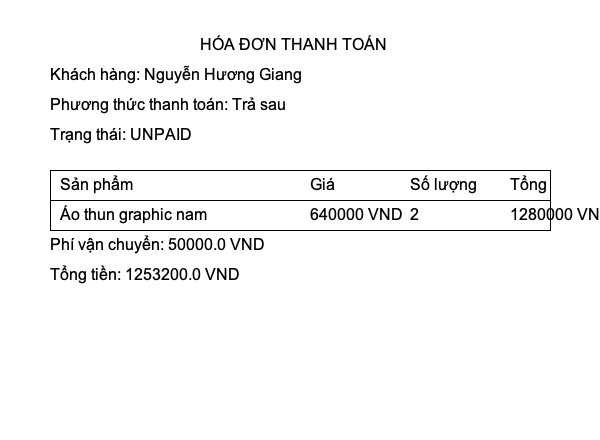
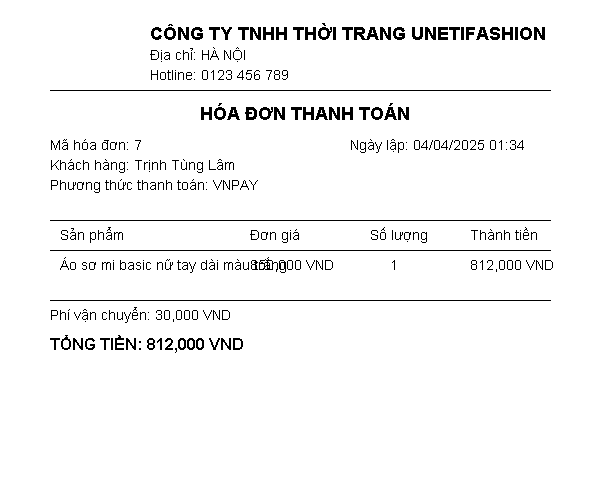
fix filter

Changed region(s): [[0.06, 0.0295, 1.0, 0.65], [0.09, 0.6795, 0.42, 0.7386], [0.69, 0.2659, 0.87, 0.325]]

diff --git a/src/main/java/com/example/doan/jmageBill/InvoiceImageGenerator.java b/src/main/java/com/example/doan/jmageBill/InvoiceImageGenerator.java
@@ -24,7 +24,7 @@ public class InvoiceImageGenerator {
         g2d.setColor(Color.BLACK);
         
         g2d.setFont(new Font("Arial", Font.BOLD, 18));
-        g2d.drawString("CÔNG TY TNHH THỜI TRANG UNETIFASHION", 150, 40);
+        g2d.drawString("SHOP THỜI TRANG UNETIFASHION", 150, 40);
         g2d.setFont(new Font("Arial", Font.PLAIN, 14));
         g2d.drawString("Địa chỉ: HÀ NỘI", 150, 60);
         g2d.drawString("Hotline: 0123 456 789", 150, 80);
@@ -50,11 +50,32 @@ public class InvoiceImageGenerator {
         
         int y = tableStartY + 50;
         for (BillItem item : bill.getBillItems()) {
-            g2d.drawString(item.getProductVariant().getProduct().getProductName(), 60, y);
-            g2d.drawString(String.format("%,.0f VND", item.getProductVariant().getPrice()), 250, y);
-            g2d.drawString(String.valueOf(item.getQuantity()), 390, y);
-            g2d.drawString(String.format("%,.0f VND", item.getTotalPrice()), 470, y);
-            y += 30;
+            String productName = item.getProductVariant().getProduct().getProductName();
+            int maxWidth = 180; // Chiều rộng tối đa của cột tên sản phẩm
+            FontMetrics metrics = g2d.getFontMetrics();
+
+            // Xử lý cắt dòng cho tên sản phẩm
+            int lineHeight = metrics.getHeight();
+            int lineY = y;
+            String[] words = productName.split(" ");
+            StringBuilder line = new StringBuilder();
+
+            for (String word : words) {
+                if (metrics.stringWidth(line + word) > maxWidth) {
+                    g2d.drawString(line.toString(), 60, lineY);
+                    line = new StringBuilder(word + " ");
+                    lineY += lineHeight;
+                } else {
+                    line.append(word).append(" ");
+                }
+            }
+            g2d.drawString(line.toString(), 60, lineY); // Vẽ dòng cuối cùng
+            y = Math.max(y, lineY) + 30; // Cập nhật vị trí Y cho dòng tiếp theo
+
+            // Vẽ các cột khác
+            g2d.drawString(String.format("%,.0f VND", item.getProductVariant().getPrice()), 250, y - 30);
+            g2d.drawString(String.valueOf(item.getQuantity()), 390, y - 30);
+            g2d.drawString(String.format("%,.0f VND", item.getTotalPrice()), 470, y - 30);
         }
  
         g2d.drawLine(50, y, 550, y);

diff --git a/src/main/java/com/example/doan/controller/ProductController.java b/src/main/java/com/example/doan/controller/ProductController.java
@@ -1,8 +1,6 @@
 package com.example.doan.controller;
 
-import java.util.HashMap;
-import java.util.List;
-import java.util.Map;
+import java.util.*;
 
 import org.springframework.beans.factory.annotation.Autowired;
 import org.springframework.data.domain.Page;
@@ -49,13 +47,32 @@ public class ProductController {
     }
 
     @GetMapping("/filterProduct")
-    public ResponseEntity<List<ProductDTO>> filterProduct(@RequestParam(required = false) String size,
-    @RequestParam(required = false) String color,
-    @RequestParam(required = false) Double minPrice,
-    @RequestParam(required = false) Double maxPrice
-    ){
-        List<ProductDTO> filteredProducts = productService.geProductDTOs(size, color, minPrice, maxPrice);
-        return ResponseEntity.ok(filteredProducts);
+    public ResponseEntity<Map<String, Object>> filterProduct(
+            @RequestParam(required = false) String size, // Kích thước sản phẩm
+            @RequestParam(required = false) String color,
+            @RequestParam(required = false) Double minPrice,
+            @RequestParam(required = false) Double maxPrice,
+            @RequestParam(value = "page", defaultValue = "0") int page,
+            @RequestParam(value = "pageSize", defaultValue = "10") int pageSize) { // Đổi tên size thành pageSize
+
+        List<String> sizes = (size != null && !size.isEmpty())
+                ? Arrays.asList(size.split(","))
+                : null;
+
+        List<String> colors = (color != null && !color.isEmpty())
+                ? Arrays.asList(color.split(","))
+                : null;
+
+        Pageable pageable = PageRequest.of(page, pageSize); // Sử dụng pageSize thay vì size
+        Page<ProductDTO> productPage = productService.geProductDTOs(sizes, colors, minPrice, maxPrice, pageable);
+
+        Map<String, Object> response = new HashMap<>();
+        response.put("totalPages", productPage.getTotalPages());
+        response.put("totalElements", productPage.getTotalElements());
+        response.put("numberOfElements", productPage.getNumberOfElements());
+        response.put("products", productPage.getContent());
+
+        return ResponseEntity.ok(response);
     }
 
     @PostMapping("/addProductNew")

diff --git a/src/main/java/com/example/doan/controller/PaymentController.java b/src/main/java/com/example/doan/controller/PaymentController.java
@@ -100,25 +100,34 @@ public class PaymentController {
     }
 
     @GetMapping("/payment_return")
-    public ResponseEntity<String> paymentReturn(@RequestParam Map<String, String> params) {
+    public ResponseEntity<Map<String, String>> paymentReturn(@RequestParam Map<String, String> params) {
         String vnp_ResponseCode = params.get("vnp_ResponseCode");
         String vnp_TransactionStatus = params.get("vnp_TransactionStatus");
         Long orderId = Long.parseLong(params.get("vnp_TxnRef"));
 
         Orders order = orderRepository.findById(orderId)
                 .orElseThrow(() -> new RuntimeException("Order not found"));
-        
+
+        Map<String, String> response = new HashMap<>();
+
         if ("00".equals(vnp_ResponseCode) && "00".equals(vnp_TransactionStatus)) {
             order.setPaymentStatus(PaymentStatus.PAID);
             order.setOrderEnum(OrderEnum.PENDING);
             orderRepository.save(order);
             billService.createBill(orderId);
-            return ResponseEntity.ok("Thanh toán thành công! Đơn hàng đã được cập nhật.");
+
+            response.put("status", "success");
+            response.put("message", "Thanh toán thành công! Đơn hàng đã được cập nhật.");
+            response.put("redirectUrl", "http://localhost:3000/product"); // URL chuyển hướng
+            return ResponseEntity.ok(response);
         } else {
             order.setPaymentStatus(PaymentStatus.UNPAID);
             order.setOrderEnum(OrderEnum.PENDING);
             orderRepository.save(order);
-            return ResponseEntity.badRequest().body("Thanh toán thất bại. Vui lòng thử lại!");
+
+            response.put("status", "failure");
+            response.put("message", "Thanh toán thất bại. Vui lòng thử lại!");
+            return ResponseEntity.badRequest().body(response);
         }
     }
 

diff --git a/src/main/java/com/example/doan/service/ProductImple.java b/src/main/java/com/example/doan/service/ProductImple.java
@@ -1,11 +1,11 @@
 package com.example.doan.service;
 
 import java.io.IOException;
-import java.text.ParseException;
-import java.text.SimpleDateFormat;
 import java.util.ArrayList;
-import java.util.Date;
 import java.util.List;
+import java.util.stream.Collectors;
+
+import com.example.doan.service.mapper.ProductMapper;
 import org.springframework.beans.factory.annotation.Autowired;
 import org.springframework.data.domain.Page;
 import org.springframework.data.domain.PageRequest;
@@ -36,6 +36,9 @@ public class ProductImple implements ProductService{
     private ProductImageRepository productImageRepository;
     @Autowired
     private ProductVariantReposi productVariantReposi;
+
+//    @Autowired
+//    private ProductMapper productMapper;
 //   @Override
 //
 //   public Long saveProduct(ProductDTO productDTO, MultipartFile imageFile) {
@@ -298,9 +301,12 @@ public Product getProductById(long id) {
 //        }
 //    }
     @Override
-    public List<ProductDTO> geProductDTOs(String size, String color, Double minPrice, Double maxPrice) {
-        List<Product> products = productRepository.findFilteredProducts(size, color, minPrice, maxPrice);
-        return converToDTOs(products);
+    public Page<ProductDTO> geProductDTOs(List<String> size, List<String> color, Double minPrice, Double maxPrice, Pageable pageable) {
+        // Sử dụng repository để lọc sản phẩm với phân trang
+        Page<Product> productPage = productRepository.findProductsByFilters(size, color, minPrice, maxPrice, pageable);
+
+        // Chuyển đổi từ Product sang ProductDTO
+        return productPage.map(product -> new ProductDTO(product));
     }
 
     public List<ProductDTO> converToDTOs(List<Product> products){

diff --git a/src/main/java/com/example/doan/dto/ProductDTO.java b/src/main/java/com/example/doan/dto/ProductDTO.java
@@ -1,7 +1,11 @@
 package com.example.doan.dto;
 import java.util.ArrayList;
 import java.util.List;
+import java.util.stream.Collectors;
 
+import com.example.doan.entity.Product;
+import lombok.AllArgsConstructor;
+import lombok.NoArgsConstructor;
 import org.springframework.web.multipart.MultipartFile;
 
 import jakarta.validation.constraints.DecimalMax;
@@ -15,6 +19,8 @@ import lombok.Data;
 
 @Data
 @Builder
+@AllArgsConstructor
+@NoArgsConstructor
 public class ProductDTO {
     private Long id;
     @NotBlank(message = "Tên sản phẩm không được để trống")
@@ -46,4 +52,19 @@ public class ProductDTO {
     private List<ProductVariantDTO> variants = new ArrayList<>();
     private Byte status;
 
+    public ProductDTO(Product product) {
+        this.id = product.getId();
+        this.productName = product.getProductName();
+        this.describe = product.getDescribe();
+        this.categoryId = product.getCategory() != null ? product.getCategory().getId() : null; // Lấy id từ category
+        this.brand = product.getBrand();
+        this.releaseDate = null; // Nếu bạn không có thuộc tính releaseDate trong Product, hãy xử lý phù hợp
+        this.imageUrl = null; // Nếu bạn không có thuộc tính imageUrl trong Product, hãy xử lý phù hợp
+        this.rating = product.getRating();
+        this.reviewCount = product.getReviewCount();
+        this.status = null; // Nếu bạn không có thuộc tính status trong Product, hãy xử lý phù hợp
+        this.variants = product.getVariants().stream()
+                .map(ProductVariantDTO::new) // Ánh xạ từng variant sang ProductVariantDTO
+                .collect(Collectors.toList());
+    }
 }

diff --git a/src/main/java/com/example/doan/repository/ProductRepository.java b/src/main/java/com/example/doan/repository/ProductRepository.java
@@ -21,16 +21,16 @@ public interface ProductRepository extends JpaRepository<Product, Long> {
     Optional<Product> findById(Long id);
 
     @Query("SELECT DISTINCT p FROM Product p " +
-           "JOIN p.variants v " +
-           "WHERE (:size IS NULL OR v.size = :size) " +   // Nếu size không null, tìm sản phẩm có size đó
-           "AND (:color IS NULL OR v.color = :color) " +  // Nếu color không null, tìm sản phẩm có màu đó
-           "AND (:minPrice IS NULL OR v.price >= :minPrice) " + // Nếu minPrice không null, tìm sản phẩm có giá >= minPrice
-           "AND (:maxPrice IS NULL OR v.price <= :maxPrice)")
-    List<Product> findFilteredProducts(
-            @Param("size") String size,
-            @Param("color") String color,
+            "JOIN p.variants v " +
+            "WHERE (:sizes IS NULL OR v.size IN :sizes) " +
+            "AND (:colors IS NULL OR v.color IN :colors) " +
+            "AND (:minPrice IS NULL OR v.price >= :minPrice) " +
+            "AND (:maxPrice IS NULL OR v.price <= :maxPrice)")
+    Page<Product> findProductsByFilters(
+            @Param("sizes") List<String> sizes,
+            @Param("colors") List<String> colors,
             @Param("minPrice") Double minPrice,
-            @Param("maxPrice") Double maxPrice
-    );
+            @Param("maxPrice") Double maxPrice,
+            Pageable pageable);
     Page<Product> findByProductNameContainingIgnoreCaseAndIsDeleted(String productName, byte isDeleted, Pageable pageable);
 }

diff --git a/src/main/java/com/example/doan/controller/CartController.java b/src/main/java/com/example/doan/controller/CartController.java
@@ -18,6 +18,9 @@ import com.example.doan.dto.CartItemDTO;
 import com.example.doan.entity.UserEntity;
 import com.example.doan.service.CartService;
 
+import java.util.HashMap;
+import java.util.Map;
+
 @RestController
 @RequestMapping("/api/cart")
 public class CartController {
@@ -35,13 +38,19 @@ public class CartController {
     public ResponseEntity<?> addProductToCart(@RequestBody CartItemDTO itemDTO) {
         Long userId = getCurrentUserId();
         CartDTO updatedCart = cartService.addProduct(
-            userId,
-            itemDTO.getProductVariantId(),
-            itemDTO.getQuantity(),
-            itemDTO.getPrice(),
-            itemDTO.getImageUrl()
+                userId,
+                itemDTO.getProductVariantId(),
+                itemDTO.getQuantity(),
+                itemDTO.getPrice(),
+                itemDTO.getImageUrl()
         );
-        return ResponseEntity.ok(updatedCart);
+
+        Map<String, Object> response = new HashMap<>();
+        response.put("success", true);
+        response.put("message", "Thêm vào giỏ hàng thành công!");
+        response.put("cart", updatedCart);
+
+        return ResponseEntity.ok(response);
     }
     private Long getCurrentUserId() {
         Authentication authentication = SecurityContextHolder.getContext().getAuthentication();

diff --git a/src/main/java/com/example/doan/service/BillService.java b/src/main/java/com/example/doan/service/BillService.java
@@ -28,16 +28,24 @@ public class BillService {
                 .orElseThrow(() -> new RuntimeException("Không tìm thấy hóa đơn với ID: " + billId));
     }
     public Bill createBill(Long orderId) {
-        
         Orders order = ordersRepository.findById(orderId)
                 .orElseThrow(() -> new RuntimeException("Order not found"));
+
         if (billRepository.existsByOrder(order)) {
             throw new RuntimeException("Bill for this order already exists!");
         }
 
+        // Kiểm tra xem đơn hàng có thông tin người dùng hay không
+        if (order.getUserId() == null) {
+            throw new RuntimeException("User not found for this order!");
+        }
+
         Bill bill = new Bill();
         bill.setOrder(order);
+
+        // Truyền toàn bộ đối tượng UserEntity
         bill.setUserEntity(order.getUserId());
+
         bill.setShipping(order.getInforShipping());
         bill.setTotalAmount(order.getTotalPrice());
         bill.setPaymentMethod(order.getPaymentMethod());

diff --git a/src/main/java/com/example/doan/service/OderImple.java b/src/main/java/com/example/doan/service/OderImple.java
@@ -88,7 +88,7 @@ public class OderImple implements OrderService{
                 .shippingMethod(ShipingEnum.valueOf(shippingMethod.toUpperCase()))
                 .items(new ArrayList<>())
                 .totalPrice(0.0)
-                .shippingFee(30000.0)
+                .shippingFee(0.0)
                 .orderEnum(OrderEnum.PENDING) 
                 .paymentStatus(PaymentStatus.UNPAID)
                 .build();
@@ -117,7 +117,7 @@ public class OderImple implements OrderService{
             productVariant.setStock(productVariant.getStock() - cartItem.getQuantity());
             productVariantReposi.save(productVariant);
         }
-        order.setTotalPrice(total + order.calculateShippingFee());
+        order.setTotalPrice(total);
         order.setShippingFee(order.calculateShippingFee());
         orderRepository.save(order);
 

diff --git a/src/main/java/com/example/doan/dto/ProductVariantDTO.java b/src/main/java/com/example/doan/dto/ProductVariantDTO.java
@@ -1,5 +1,6 @@
 package com.example.doan.dto;
 
+import com.example.doan.entity.ProductVariant;
 import com.example.doan.status.ProductStatus;
 import jakarta.validation.constraints.Min;
 import jakarta.validation.constraints.NotBlank;
@@ -39,4 +40,15 @@ public class ProductVariantDTO {
     private Double promotionalPrice;
 
     private ProductStatus productStatus;
+
+    public ProductVariantDTO(ProductVariant variant) {
+        this.size = variant.getSize();
+        this.color = variant.getColor();
+        this.material = variant.getMaterial();
+        this.price = variant.getPrice();
+        this.stock = variant.getStock();
+        this.discountPercentage = variant.getDiscountPercentage();
+        this.promotionalPrice = variant.getPromotionalPrice();
+        this.productStatus = variant.getProductStatus();
+    }
 }

diff --git a/src/main/java/com/example/doan/service/ProductService.java b/src/main/java/com/example/doan/service/ProductService.java
@@ -17,7 +17,7 @@ public interface ProductService {
     List<Product> getAllProduct(String keyword);
     Page<Product> findPaginated(int pageNo, int pageSize, String sortFileld, String sortDir);
     public void updateProduct(Long id, ProductDTO productDTO, List<MultipartFile> photos);
-    List<ProductDTO> geProductDTOs( String size, String color, Double minPrice, Double maxPrice);
+    Page<ProductDTO> geProductDTOs(List<String> size, List<String> color, Double minPrice, Double maxPrice, Pageable pageable);
     List<ProductImage> getProductImages(long productId);
     void addImagesToProduct(Long productId, List<MultipartFile> imageFiles) ;
     public Page<Product> findAll(String keyword,Pageable pageable) ;

diff --git a/src/main/java/com/example/doan/service/mapper/ProductMapper.java b/src/main/java/com/example/doan/service/mapper/ProductMapper.java
@@ -1,0 +1,14 @@
+package com.example.doan.service.mapper;
+
+import com.example.doan.dto.ProductDTO;
+import com.example.doan.dto.ProductVariantDTO;
+import com.example.doan.entity.Product;
+import com.example.doan.entity.ProductVariant;
+import org.mapstruct.Mapper;
+
+@Mapper(componentModel = "spring")
+public interface ProductMapper {
+    ProductDTO toProductDTO(Product product);
+
+    ProductVariantDTO toProductVariantDTO(ProductVariant variant);
+}
